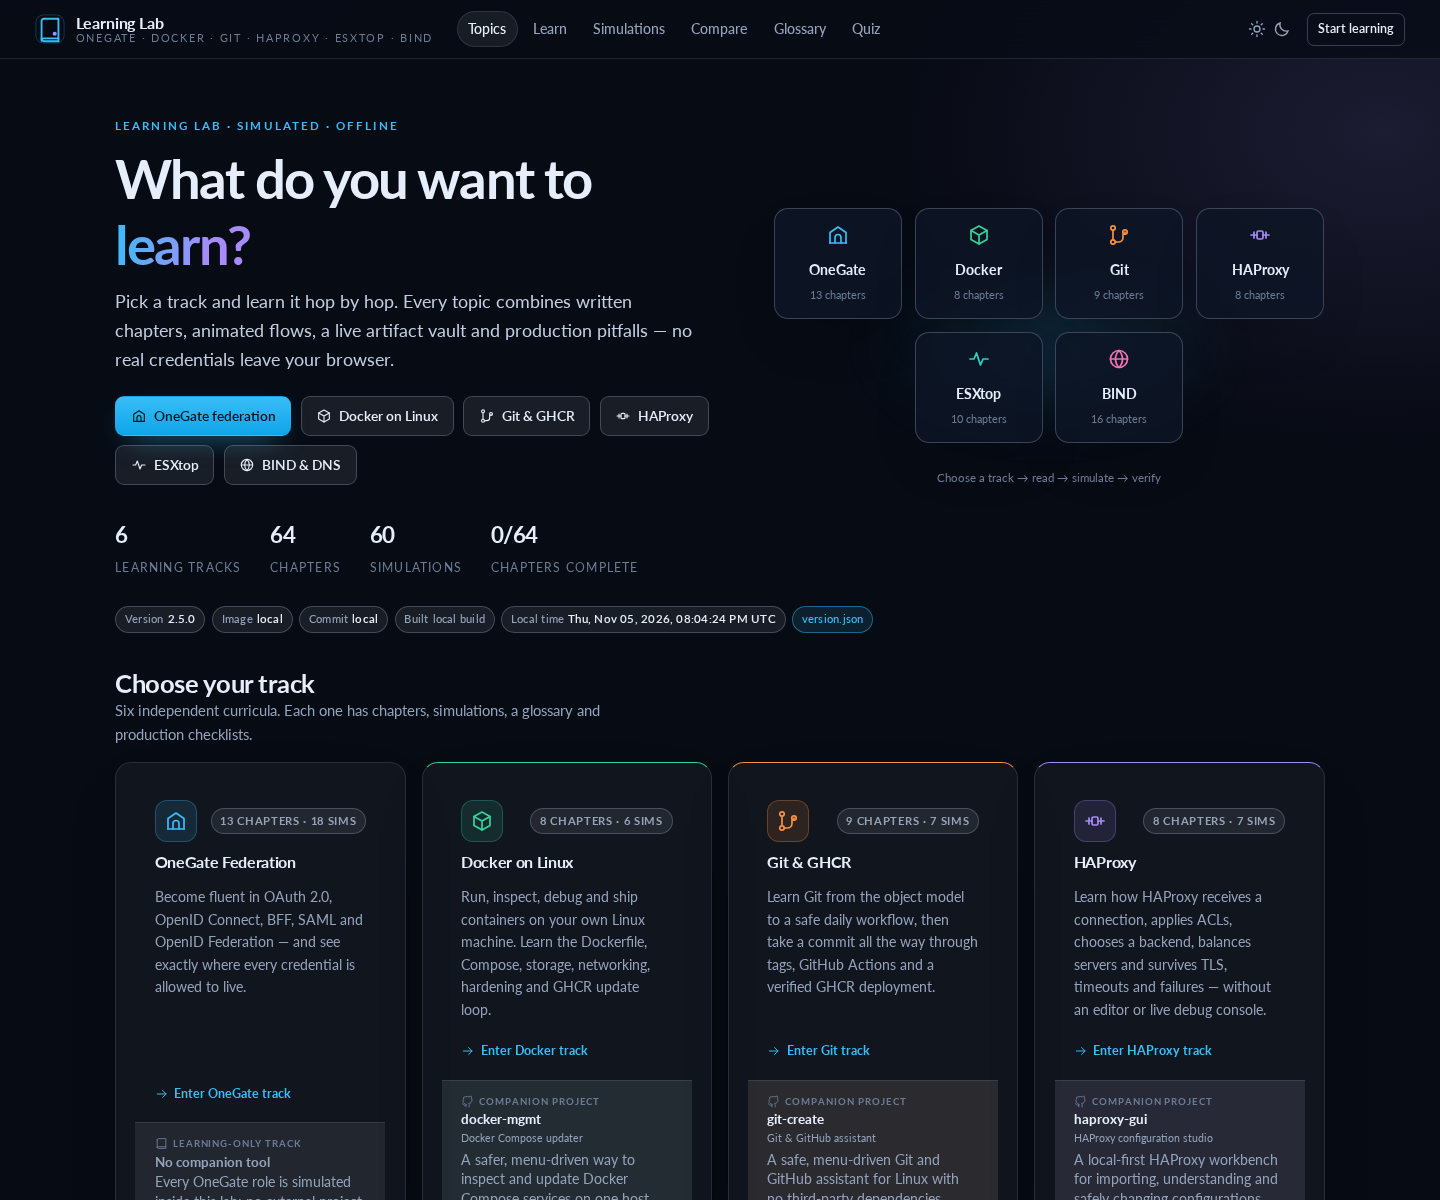
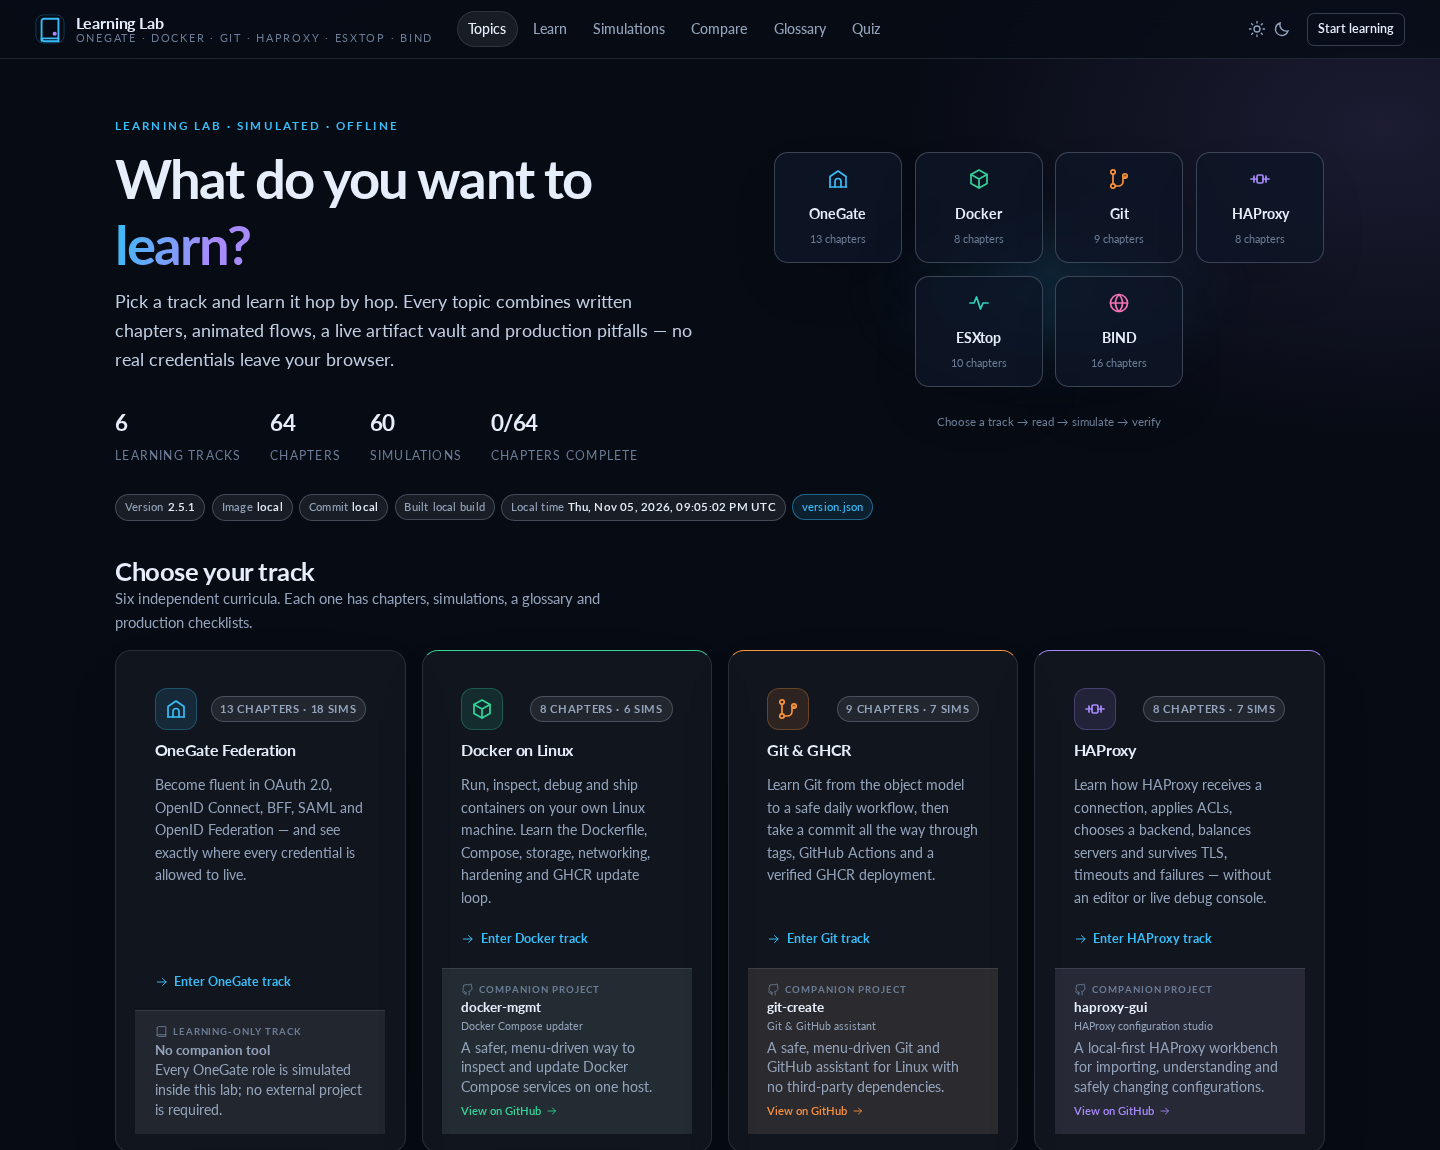
Remove hero shortcut boxes from the home page
Keep the full track and companion-project cards as the primary navigation; refresh the home screenshot and bump to 2.5.1.

diff --git a/public/assets/js/pages/home.js b/public/assets/js/pages/home.js
@@ -49,14 +49,6 @@ export function renderHome(view) {
           animated flows, a live artifact vault and production pitfalls — no real
           credentials leave your browser.
         </p>
-        <div class="hero-actions">
-          <a class="btn btn-primary" href="#/topic/onegate">${icon('gate', 16)} OneGate federation</a>
-          <a class="btn" href="#/topic/docker">${icon('box', 16)} Docker on Linux</a>
-          <a class="btn" href="#/topic/git">${icon('branch', 16)} Git &amp; GHCR</a>
-          <a class="btn" href="#/topic/haproxy">${icon('proxy', 16)} HAProxy</a>
-          <a class="btn" href="#/topic/esxtop">${icon('activity', 16)} ESXtop</a>
-          <a class="btn" href="#/topic/bind">${icon('dns', 16)} BIND &amp; DNS</a>
-        </div>
         <div class="hero-stats">
           <div class="hero-stat"><strong>${TOPIC_ORDER.length}</strong><span>learning tracks</span></div>
           <div class="hero-stat"><strong>${DOCS.length}</strong><span>chapters</span></div>

diff --git a/README.md b/README.md
@@ -217,7 +217,7 @@ Local development serves the committed fallback:
 
 ```json
 {
-  "version": "2.5.0",
+  "version": "2.5.1",
   "imageTag": "local",
   "commit": "local",
   "buildDate": null
@@ -245,7 +245,7 @@ For a manual Docker build, stamp it explicitly:
 
 ```bash
 docker build \
-  --build-arg APP_VERSION=2.5.0 \
+  --build-arg APP_VERSION=2.5.1 \
   --build-arg IMAGE_TAG=manual \
   --build-arg GIT_SHA="$(git rev-parse --short HEAD)" \
   --build-arg BUILD_DATE="$(date -u +%Y-%m-%dT%H:%M:%SZ)" \
